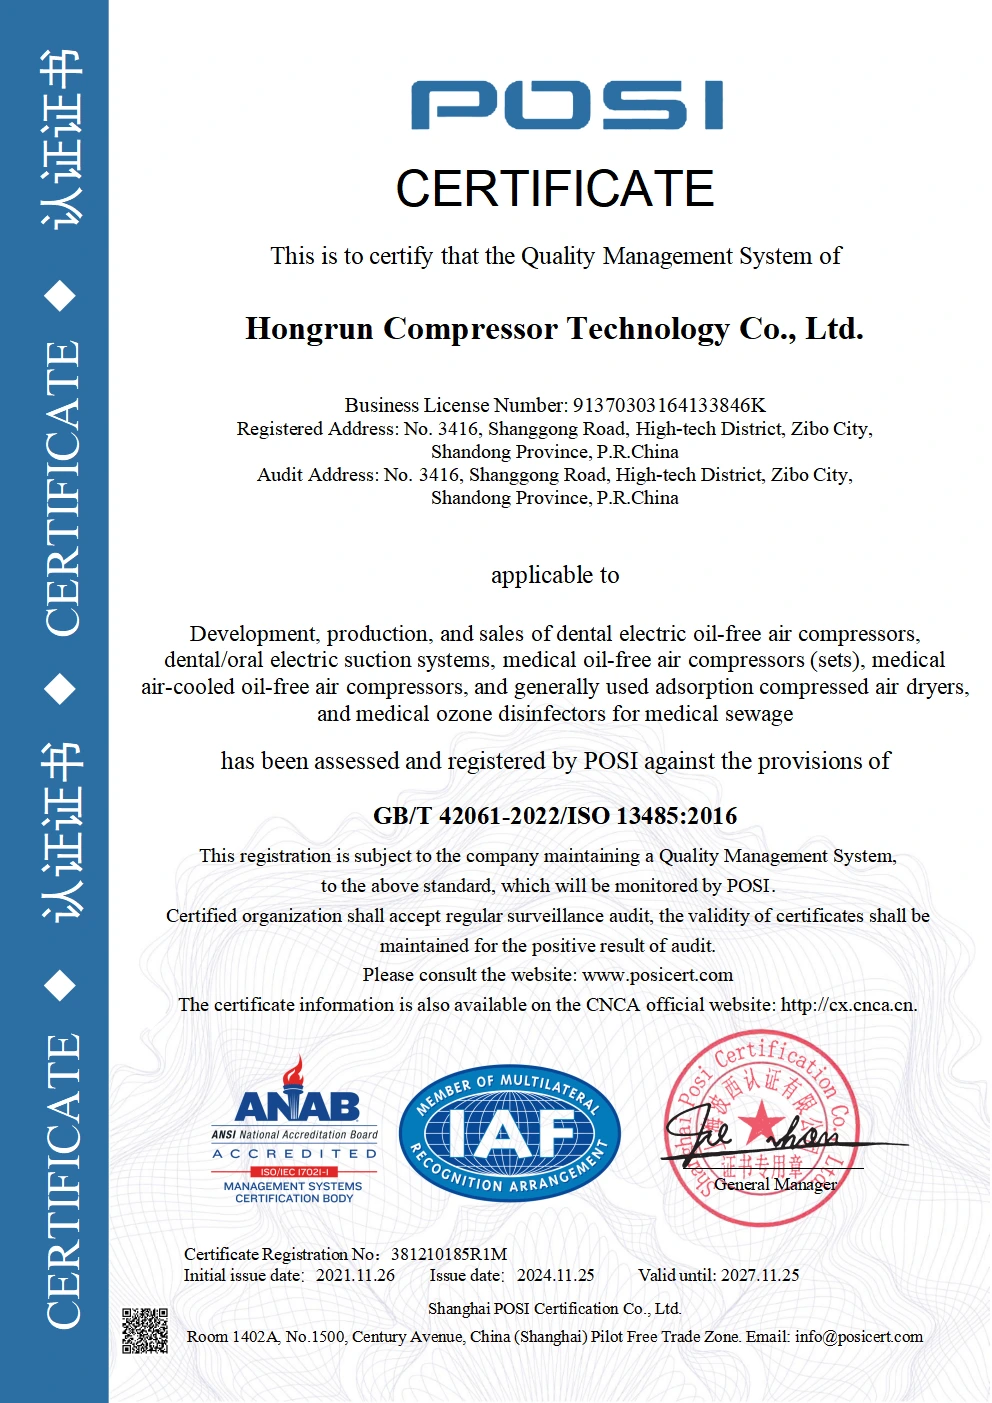
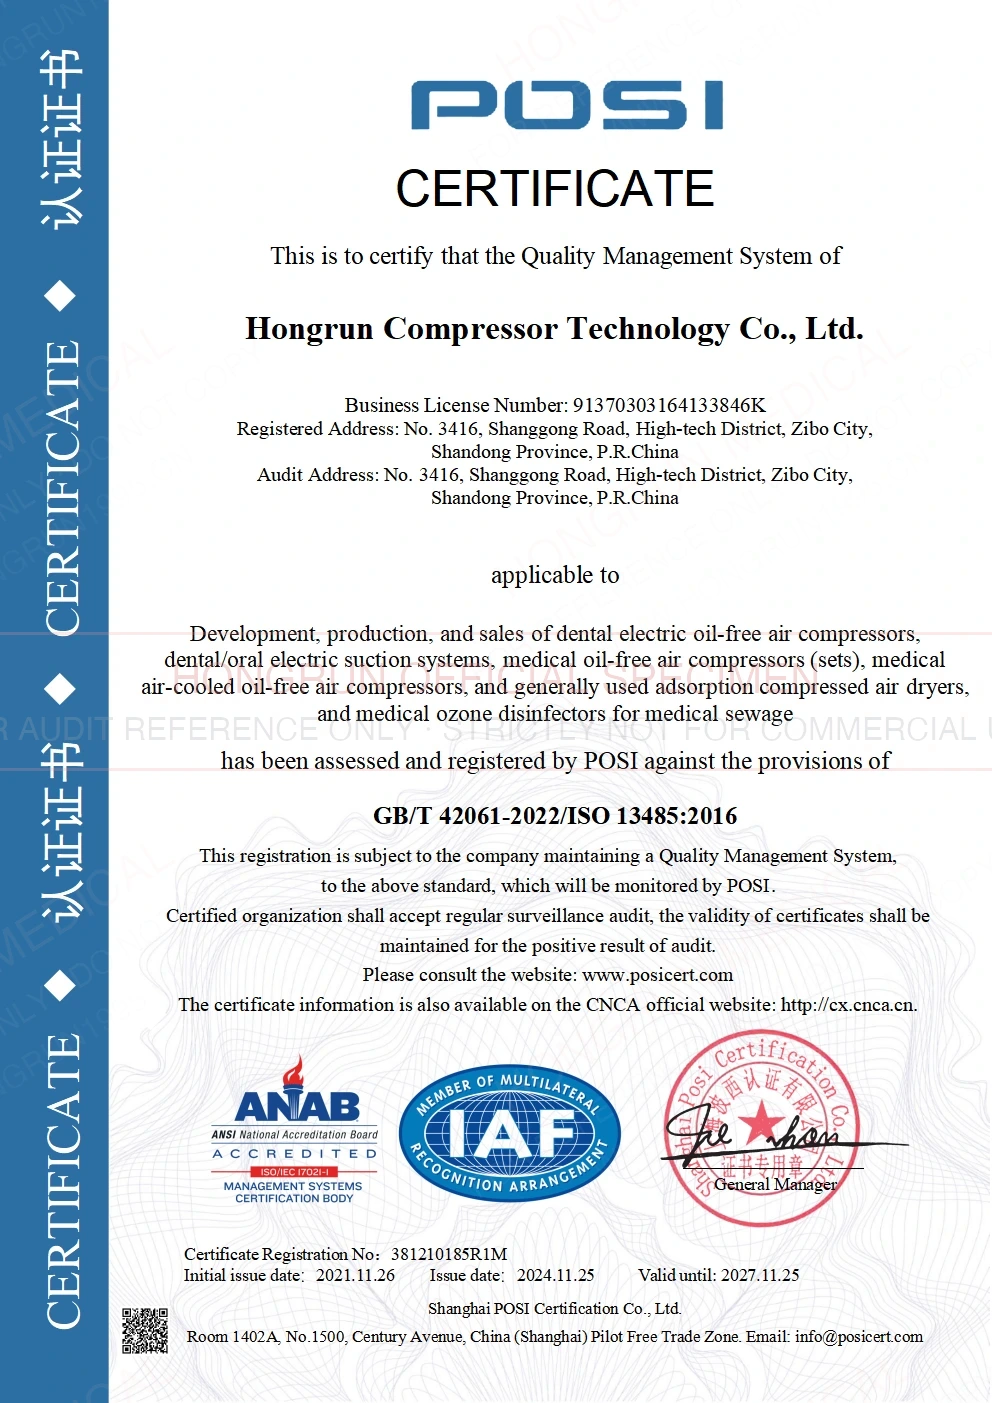
fix(assets): remove 68 broken cutout files, add watermarked ISO certs, and update Substack publication assets

Changed region(s): [[0.1875, 0.4597, 0.5625, 0.4904], [0.625, 0.4597, 0.8125, 0.4904], [0.0, 0.521, 0.0938, 0.5517]]

diff --git a/assets/docs/20261107_Substack_Engineering_Publication_and_PR_Kit.md b/assets/docs/20261107_Substack_Engineering_Publication_and_PR_Kit.md
@@ -149,7 +149,7 @@ In contrast, a duplex system like the **Hongrun HYTG-300** mounts two independen
 > **Modular Redundancy Notice (冗余模块与储气罐说明)**:  
 > *Duplex parallel configurations (N+1), intelligent alternating PLC controllers, and optional internal nano-antibacterial silver-ion tank coatings are specialized modular configurations (HYTG and HYT series) engineered for surgical centers and polyclinics requiring high-availability uptime.*
 
-![Hongrun HYT-500 Duplex Redundant System](https://www.hongrun1995.cn/assets/images/products/HYT-500-cutout.png)
+![Hongrun HYT-500 Duplex Redundant System](https://www.hongrun1995.cn/assets/images/products/hd/HYT-500.jpg)
 *Figure 5.0: Hongrun HYT Series duplex multi-pump redundant station mounted on ASME/PED receiver vessel.*
 
 ---
@@ -188,8 +188,8 @@ Compare the detailed engineering benchmarks in our technical review: [Hongrun vs
 
 Founded in November 1995 in the National High-Tech Industrial Development Zone of Zibo, Shandong Province, China, **Hongrun Compressor Technology Co., Ltd.** operates a 20,000 m² automated manufacturing facility with an annual capacity exceeding 160,000 units. Certified under **ISO 13485:2016** (Medical Device QMS, Cert: `381210185R1M`), CE MDR Class IIa, and TÜV Rheinland ISO 8573-1 Class 0, Hongrun pneumatic solutions are trusted by 65,000+ clinics and medical institutions across 50+ countries.
 
-![ISO 13485:2016 Medical Device Certificate](https://www.hongrun1995.cn/assets/images/certs/certifications/08-iso-13485-medical-device-qms.webp)
-*Figure 8.0: Hongrun ISO 13485:2016 Medical Device Quality Management System Certificate (No. 381210185R1M) accredited by ANAB & IAF.*
+![ISO 13485:2016 Medical Device Certificate (Official Watermarked Specimen)](https://www.hongrun1995.cn/assets/images/certs/certifications/08-iso-13485-medical-device-qms.webp)
+*Figure 8.0: Hongrun ISO 13485:2016 Medical Device Quality Management System Certificate (No. 381210185R1M) accredited by ANAB & IAF (Official Verification Specimen).*
 
 **Official Technical Resource**: [https://www.hongrun1995.cn/](https://www.hongrun1995.cn/)
 
